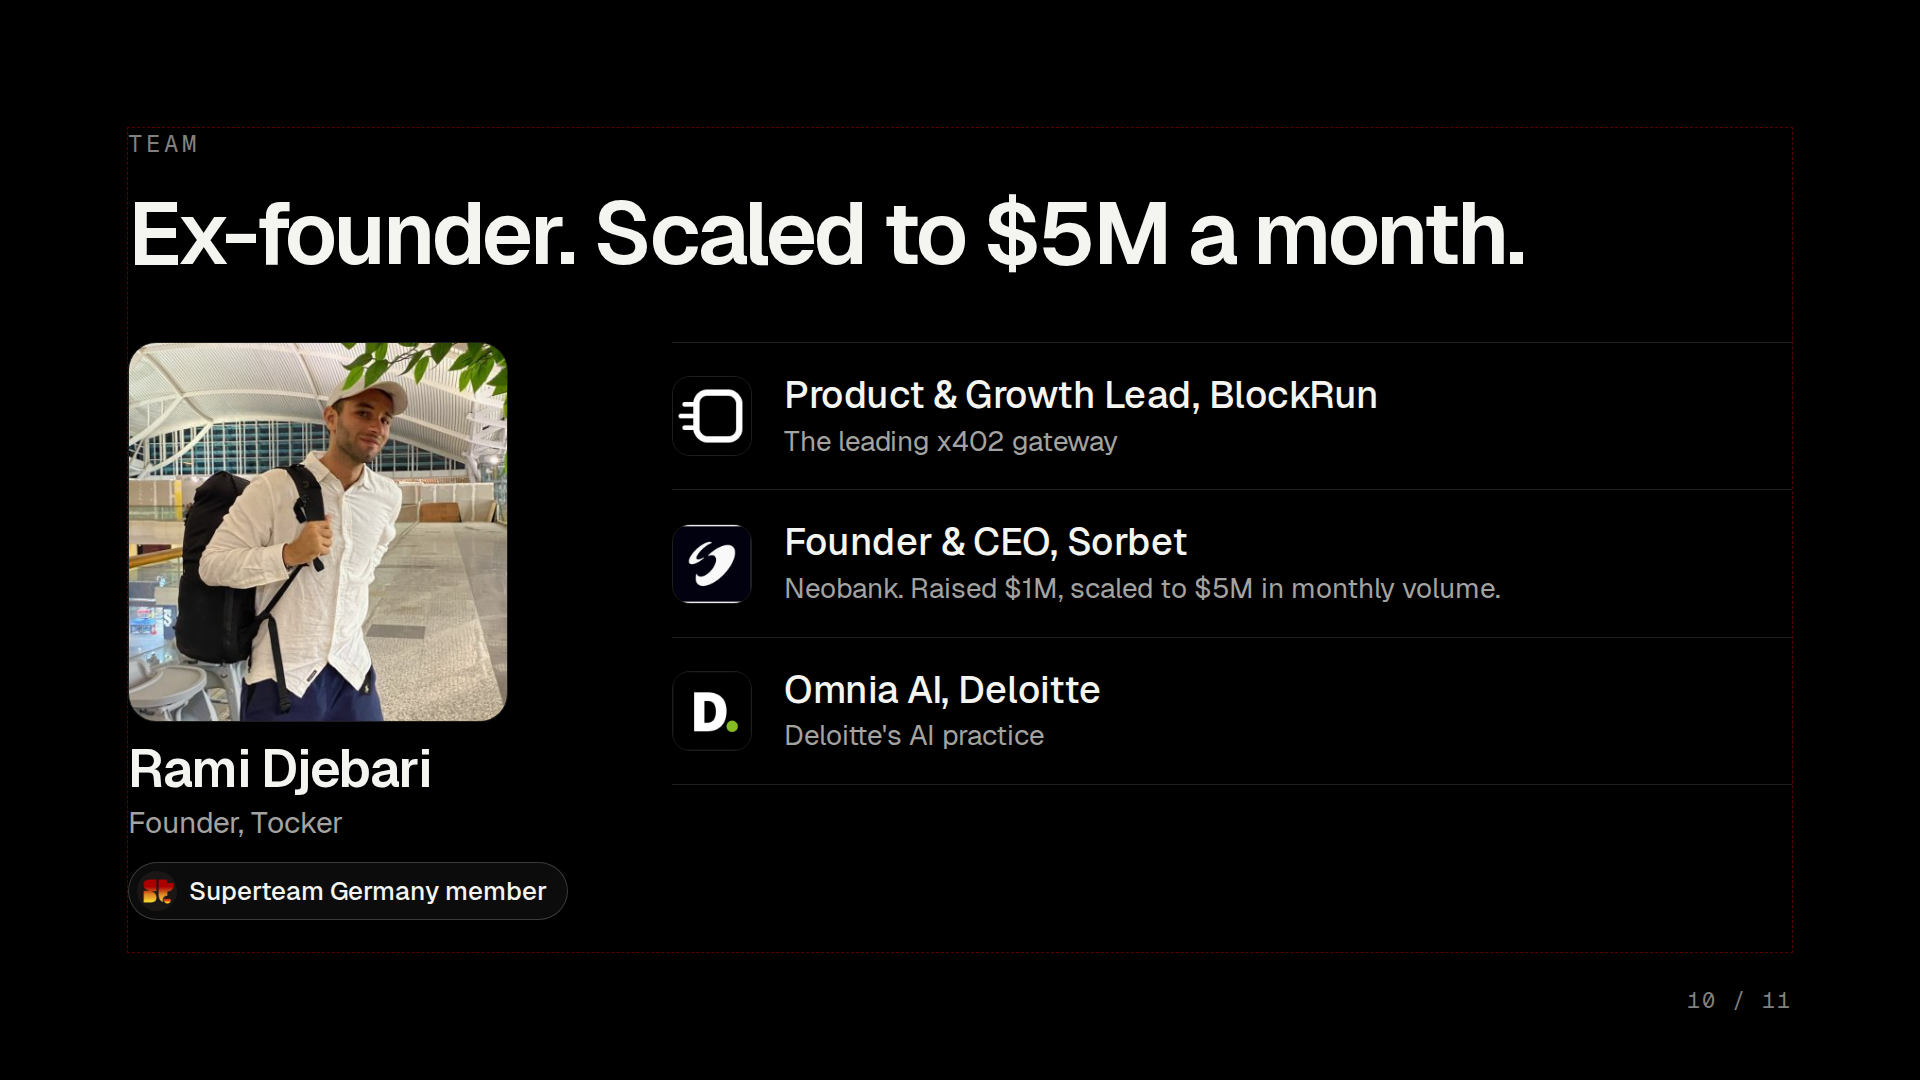
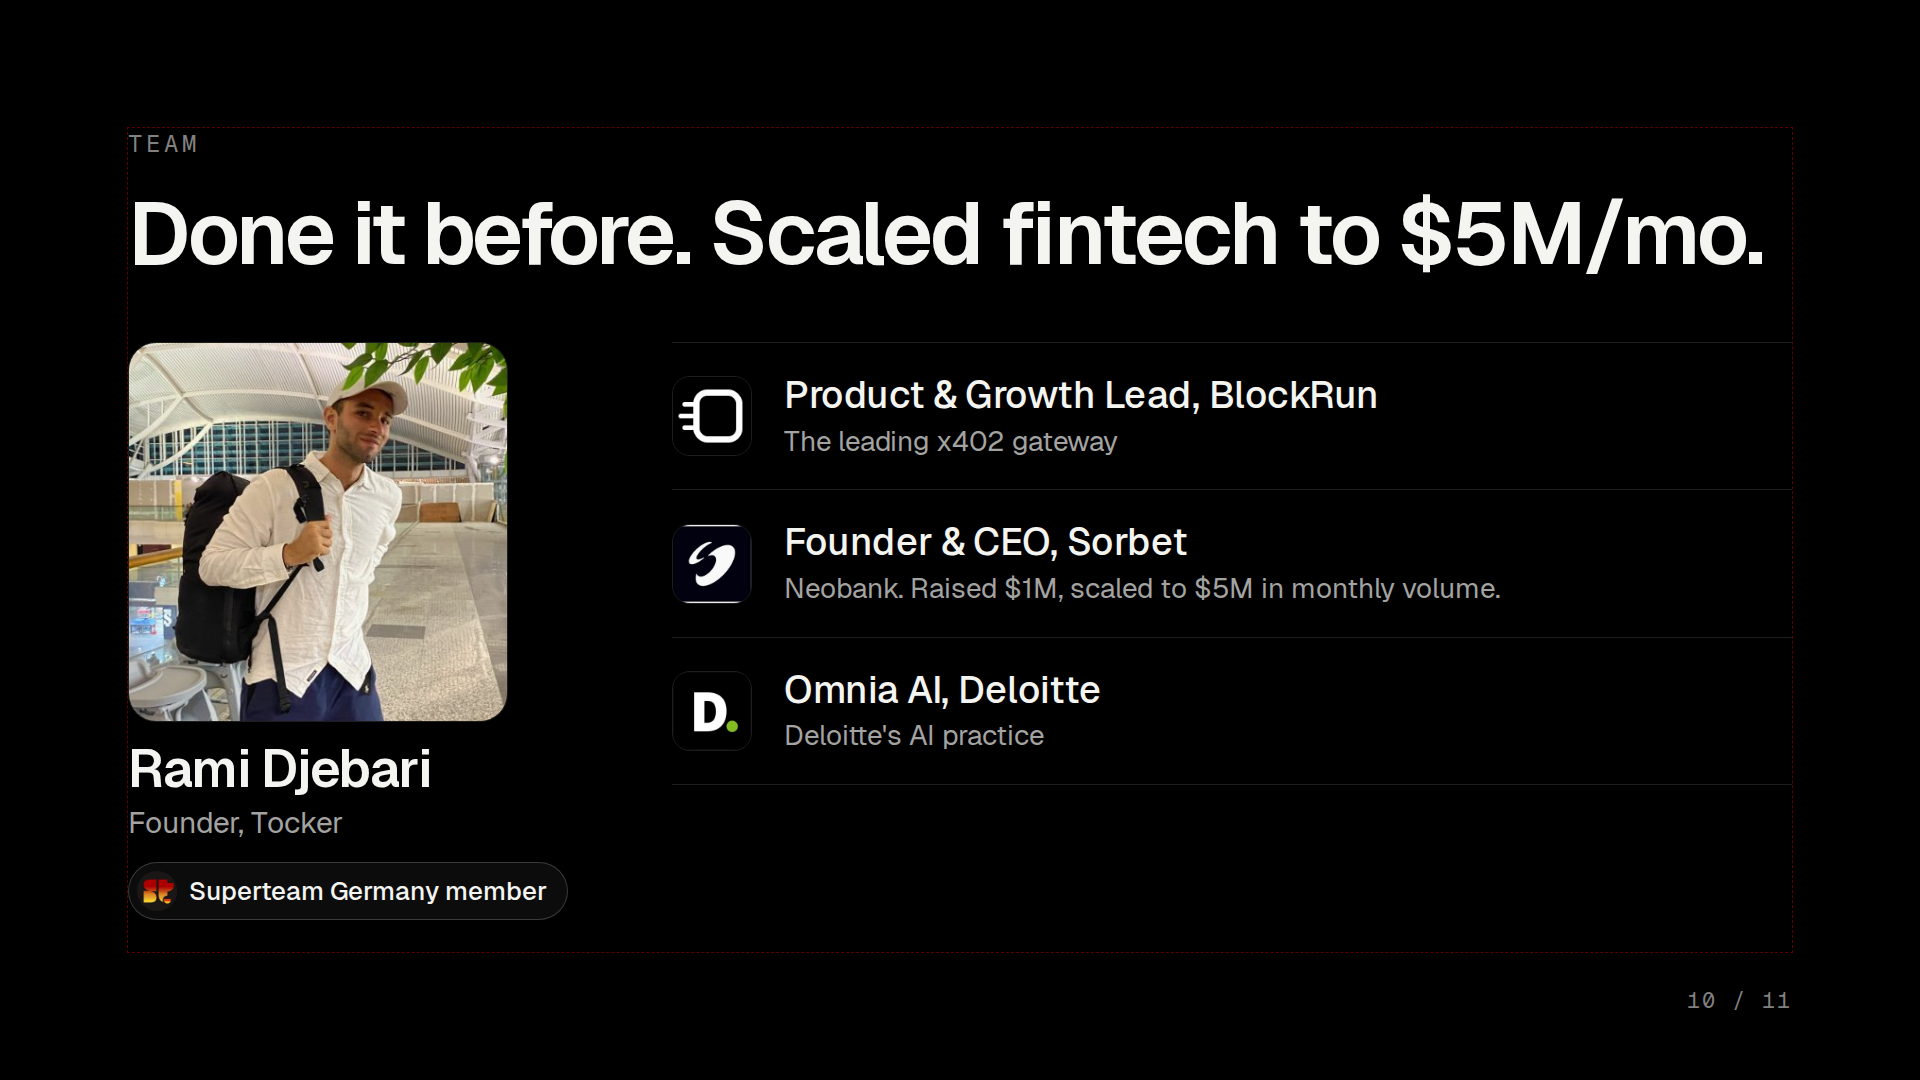
docs(pitch): team headline — Done it before. Scaled fintech to $5M/mo.
Claude-Session: https://claude.ai/code/session_01C63X7bmiYFRUvieQLSha7b

Changed region(s): [[0.0625, 0.1833, 0.9375, 0.2444]]

diff --git a/docs/pitch/deck/build_simple_slides.py b/docs/pitch/deck/build_simple_slides.py
@@ -122,7 +122,7 @@ def team():
             f'      </div>\n    </div>\n')
     right = f'    <div style="display:flex; flex-direction:column; flex:1">\n{items}    </div>\n'
     body = f'  <div style="display:flex; flex-direction:row; gap:96px; align-items:start">\n{left}{right}  </div>\n'
-    return section("team", "Team", "Ex-founder. Scaled to $5M a month.", body)
+    return section("team", "Team", "Done it before. Scaled fintech to $5M/mo.", body)
 
 
 open(f"{OUT}/team.html", "w").write(team())

diff --git a/docs/pitch/pitch-3min.md b/docs/pitch/pitch-3min.md
@@ -4,7 +4,7 @@
 - **Edge** (new slide, replaces the x402 "alpha" slide): not prediction but not losing, in three steps. Refuse the rugs (gates in code), pick by your thesis (paid data, cents a token), exit by rule. Evidence: research/29, code: research/30.
 - **Proof** slide dropped (Oct 9): the gate audit and house cohort stay in Q&A 20 as the plan, not on a slide.
 - **Competition** (Oct 9): a capability matrix, "Six good teams. Each covers a piece." Six AI startups vs Tocker on runs 24/7 on its own, your rules and guardrails, rug veto in code, picks and pays for its data (x402), pays for its AI in USDC. Cells from research/26 §7 Autonomy and the README matrix. Don't say rivals aren't 24/7: ClawPump, Minara (autopilot), Senpi and Fere all run 24/7. The moat answer is Q&A 22.
-- **Pitch #2 feedback (Oct 9): too much text.** Problem, solution, edge and business are now big numbers with one tagline each. GTM drops the feed image: two acquisition channels (a $5K autonomous trading competition as a bounty on Earn; paid ads and cold DMs on X) and the expansion markets. New traction slide after GTM: 11 users, ~$2 in fees per user per day (founder's figures; ~$60 a month, so ~$660 MRR today), 334 users × $60 = $20K MRR. The GTM test is a Superteam Earn bounty. Team headline: "Ex-founder. Scaled to $5M a month.", with a Superteam Germany member badge under the founder (founder-supplied logo).
+- **Pitch #2 feedback (Oct 9): too much text.** Problem, solution, edge and business are now big numbers with one tagline each. GTM drops the feed image: two acquisition channels (a $5K autonomous trading competition as a bounty on Earn; paid ads and cold DMs on X) and the expansion markets. New traction slide after GTM: 11 users, ~$2 in fees per user per day (founder's figures; ~$60 a month, so ~$660 MRR today), 334 users × $60 = $20K MRR. The GTM test is a Superteam Earn bounty. Team headline: "Done it before. Scaled fintech to $5M/mo.", with a Superteam Germany member badge under the founder (founder-supplied logo).
 - **Stale facts fixed:** the 0.5% fee is live (main #53), the beta is open, and the solution slide no longer says "sell-check data" (Solana has no sell test).
 Earlier competition designs: docs/pitch/deck/competition-angles/.
 
